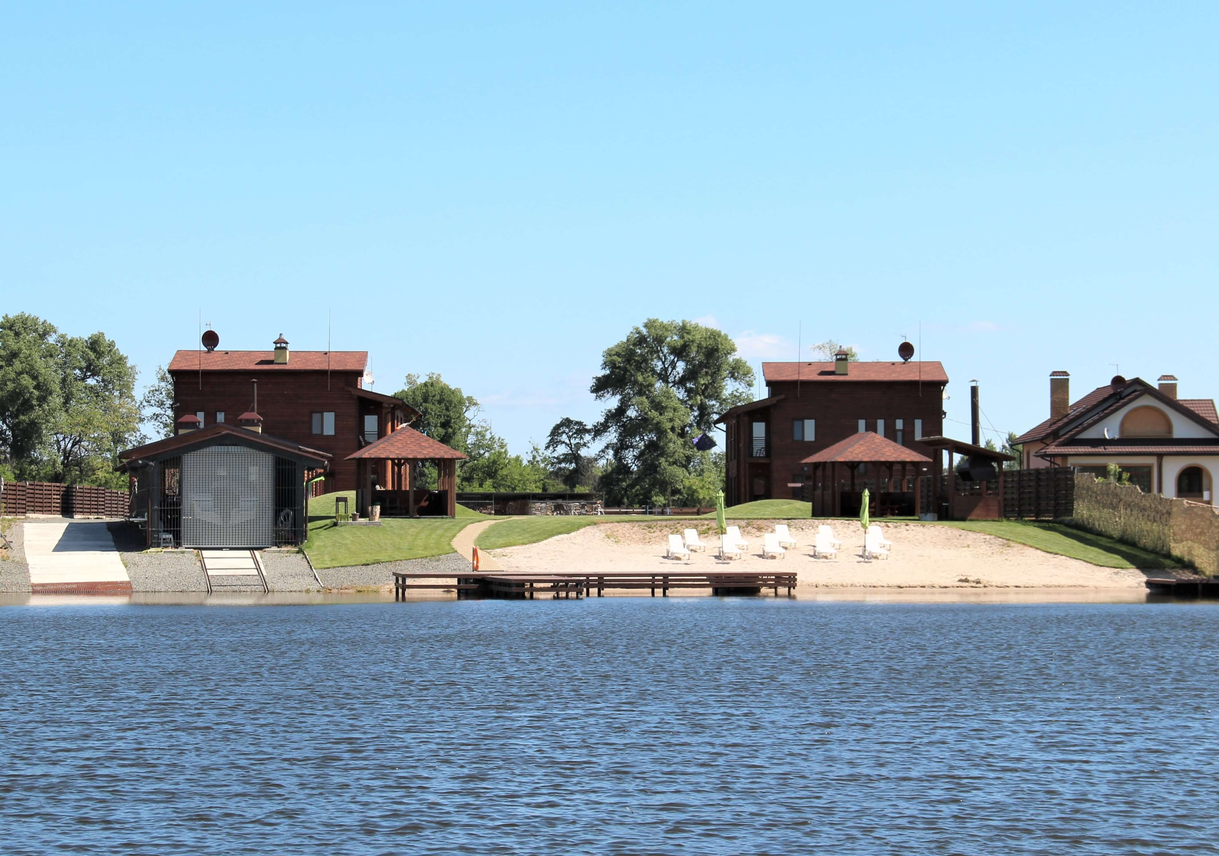
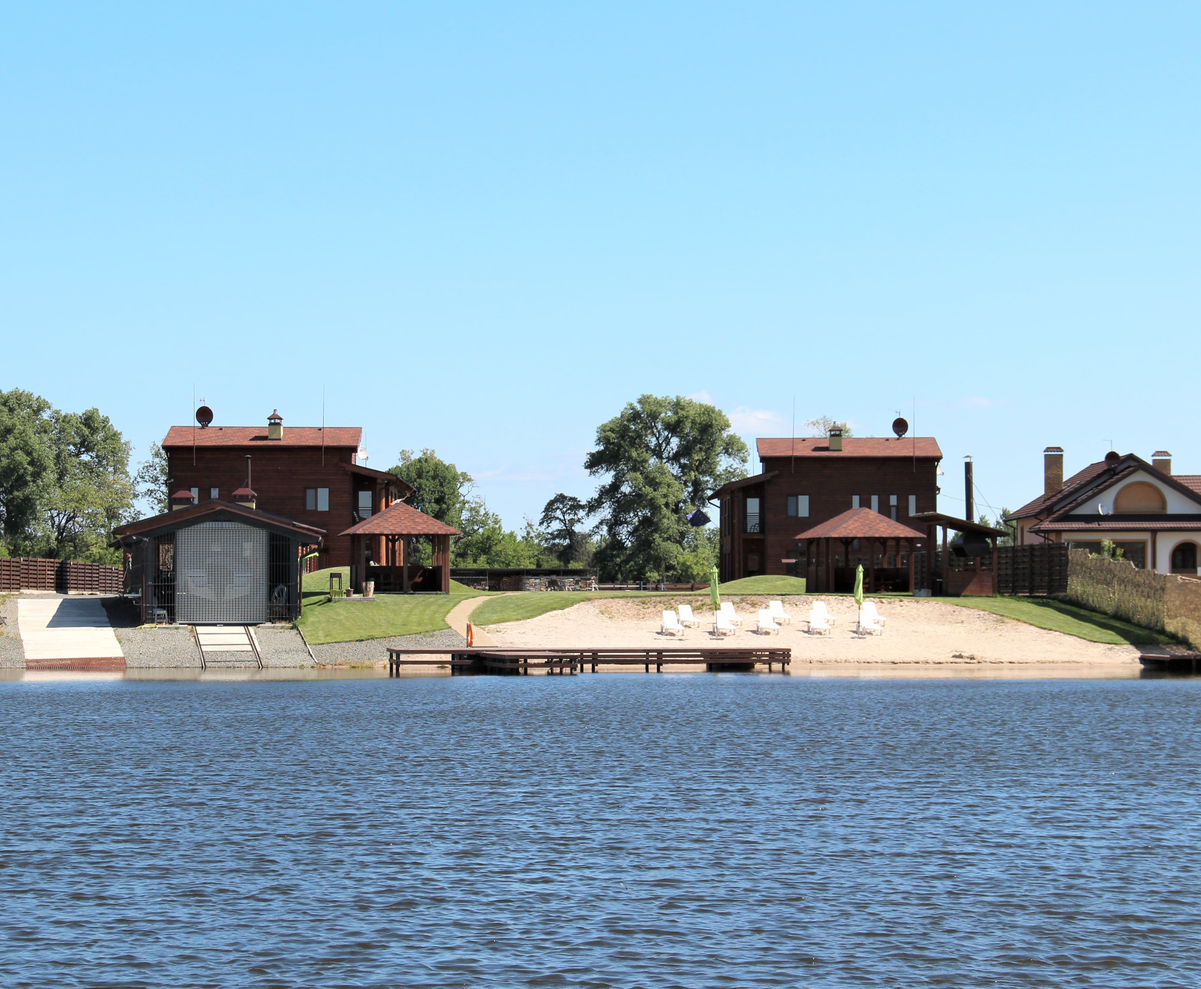
feat: change background

diff --git a/css/main.css b/css/main.css
@@ -314,7 +314,7 @@ ul {
 
 /*----------  Main section ----------*/
 .background-image {
-  background-image: url("../img/outside/outside_29.jpg");
+  background-image: url("../img/outside/outside_28_background.jpg");
   z-index: 105;
   background-repeat: no-repeat;
   background-size: cover;
